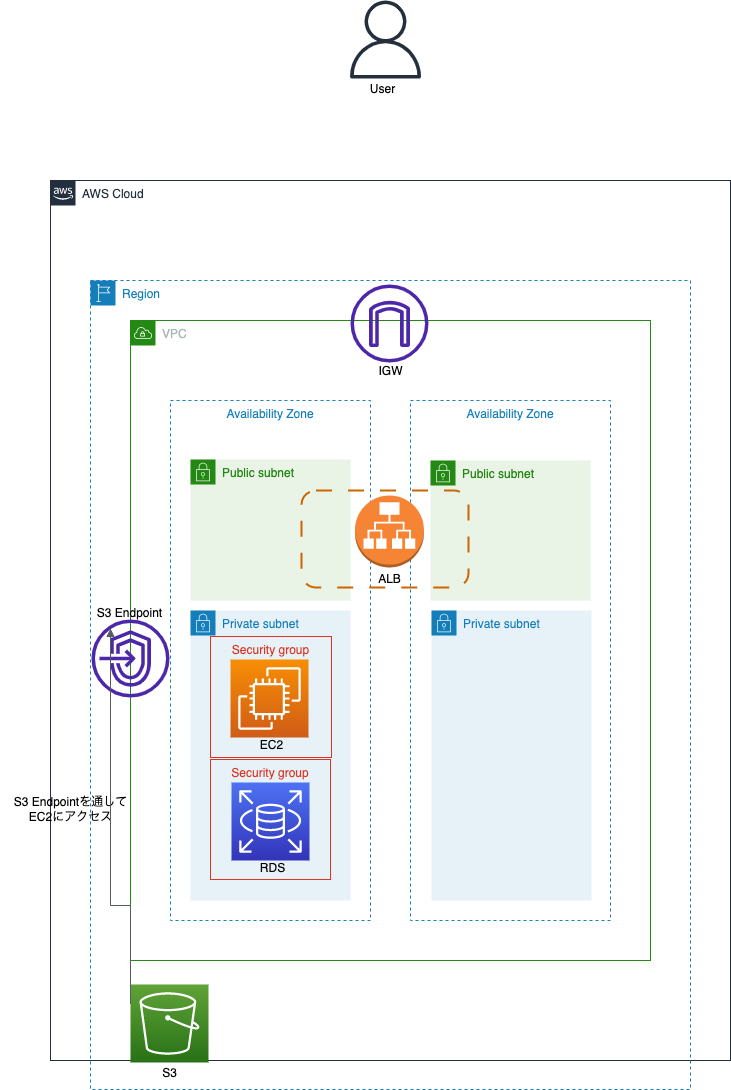
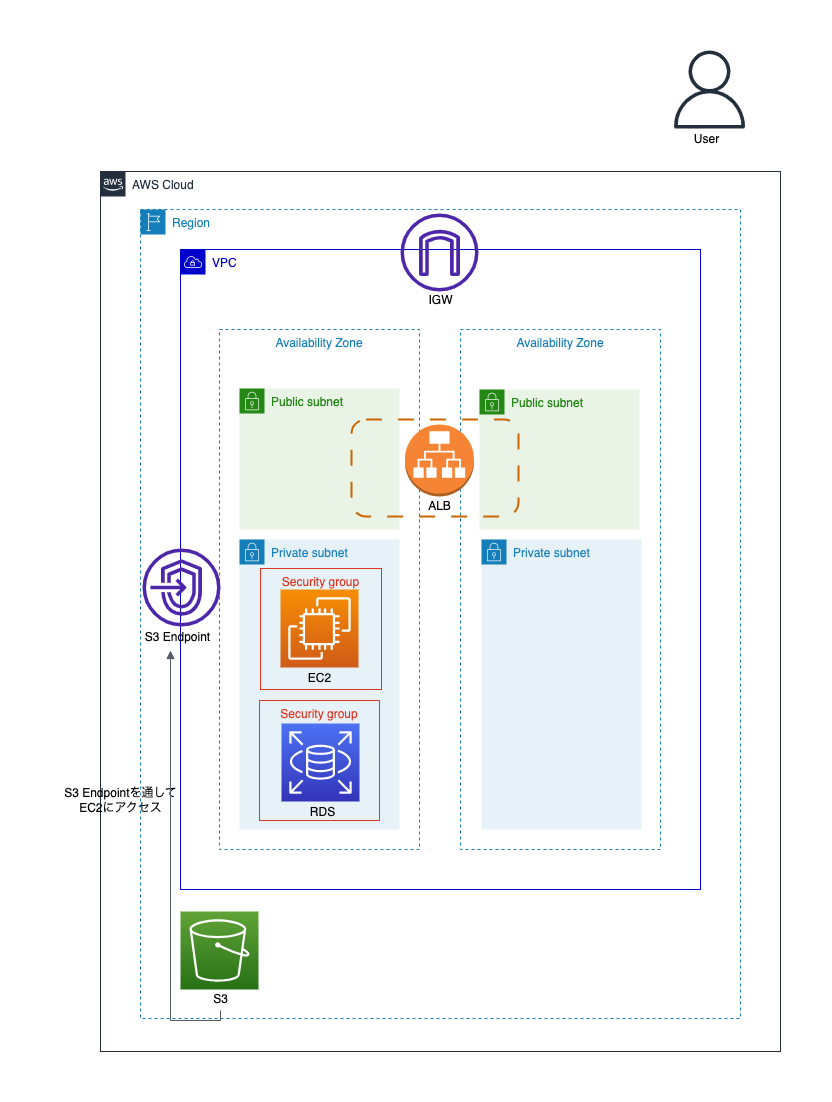
構成図差し替え

diff --git a/README.md b/README.md
@@ -2,12 +2,14 @@
 
 簡単なCRUD処理のみを行うアプリケーションをCloud9上で作成し、デプロイするための環境構築、awsのサービスを使用したリソースのコード化、テストなどこれまでの勉強の記録をまとめています。
 
+
 作成したアプリケーションの使用言語..ruby
+
 環境構築したプラットフォーム..rails
 
 
 ## lecture.mdの概要
-lecture.mdファイルには下記内容の記録があります。
+#### lecture.mdファイルには下記内容の記録があります。
 
 lecture03.. Cloud9上でRailsの環境構築、アプリケーションのデプロイ確認
 
@@ -22,13 +24,14 @@ lecture11.. serverspecを使用したテストの実行
 lecture12.. CircleCIを使用したCloudformationのyml構文チェック
 
 
+
 ## 保有資格
-取得の勉強期間を含めて記載しています。
+#### 取得するまでの勉強期間を含めて記載しています。
 
-CCNA（CISCO社）.. 4ヶ月
+CCNA（シスコシステムズ）.. 4ヶ月
 
-AWS CLF（Amazon）.. 2ヶ月
+AWS CLF（Amazon Web Service）.. 2ヶ月
 
-AWS SAA（Amaozon）.. 3.5ヶ月
+AWS SAA（Amaozon Web Service）.. 3.5ヶ月
 
-基本情報技術者試験を取得するためにITパスポート取得に向けて勉強をしています。
+基本情報技術者試験に合格するためにITパスポート取得に向けて勉強をしています。

diff --git a/lecture06.md b/lecture06.md
@@ -19,6 +19,7 @@ DescribeAlarms(アラームの説明)
 AmazonSNSに紐づけたメールアドレスにOKアラートが通知されました。
 
 
+
 ・アプリケーションの起動を停止した際のアラート
 ![ALBアラート確認](images/ALB_unhealthy.png)
 
@@ -33,7 +34,7 @@ AmazonSNSに紐づけたメールアドレスにOKアラートが通知されま
 今月はまだ無料期間枠に収まっています。
 
 ### 見積り書
-AWS Pricing Calculatorを使用して作成しました。
+AWS Pricing Calculatorを使用して作成しました。使用してきたリソースの使用量を参考に作成しました。
 
 https://calculator.aws/#/estimate?id=01b796bfd3d6d603a424d1cf0ed3a242efe5a1b0
 
